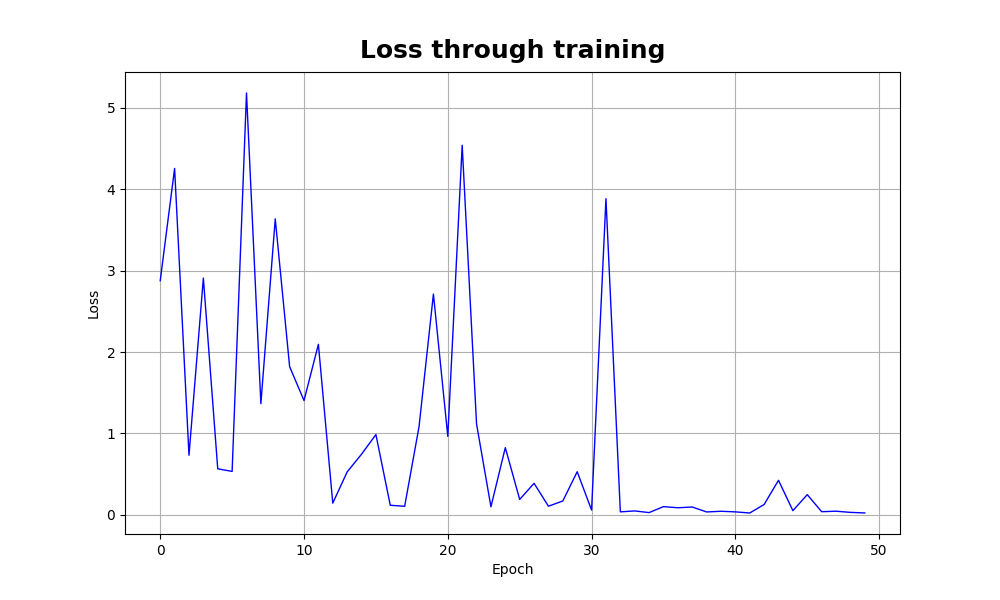
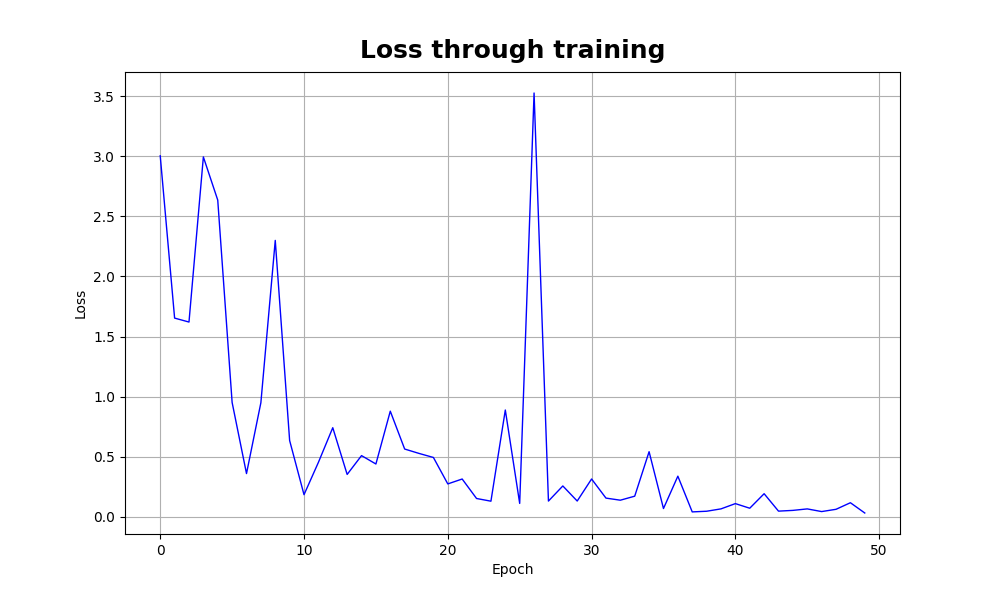
Modifiche

diff --git a/CrossValidation.py b/CrossValidation.py
@@ -7,10 +7,12 @@ import concurrent.futures
 from UtilsFile import add_csv_line
 
 
-def cross_validation(X_train, Y_train, X_val, Y_val, num_neurons_list, lambda_list, dir, activation_fn_list, momentum=True, learning_rate=0.1, num_epochs=50, print_debug=True, mini_batch_size=64):
+def cross_validation(X_train, Y_train, X_val, Y_val, num_neurons_list, lambda_list, activation_fn_list, num_epochs_list, minibatch_size_list, dir, print_debug=True):
     best_parameters = None
     best_rmse = float('inf')
     best_neurons = None
+    best_epochs = None
+    best_minibatch_size = None
     best_lambda = None
     best_error = None
     error_list_final_model = None
@@ -18,19 +20,20 @@ def cross_validation(X_train, Y_train, X_val, Y_val, num_neurons_list, lambda_li
     best_regularization = 0
     regularization_list = ["None", "L1", "L2"]
 
+
     start = time.time()
     print("\nStarting cross validation")
 
-    def evaluate_model_CV(num_neurons, lambda_r, regularization, activation_fn):
+    def evaluate_model_CV(num_neurons, epochs, minibatch_size, lambda_r, regularization, activation_fn):
 
-        parameters, error, error_list = model(X_train, Y_train, num_neurons, learning_rate, num_epochs, activation_fn, lambda_r, momentum, regularization, mini_batch_size)
+        parameters, error, error_list = model(X_train, Y_train, num_neurons, 0.01, epochs, activation_fn, lambda_r, regularization, minibatch_size)
         rmse = evaluate_model_rmse(X_val, parameters, Y_val, activation_fn)
 
         if print_debug:
             if regularization == 0:
-                text = f"RMSE for model {num_neurons} with no regularization and hidden activation function {activation_fn}: "+str(rmse)
+                text = f"RMSE for model {num_neurons} with no regularization, hidden activation function {activation_fn}, {epochs} epochs and minibatch of size {minibatch_size}: "+str(rmse)
             else:
-                text = f"RMSE for model {num_neurons} with regularization {regularization_list[regularization]}, lambda {lambda_r} and hidden activation function {activation_fn}: "+str(rmse)
+                text = f"RMSE for model {num_neurons} with regularization {regularization_list[regularization]}, lambda {lambda_r}, hidden activation function {activation_fn}, {epochs} epochs and minibatch of size {minibatch_size}: "+str(rmse)
             print(text)
 
         return {
@@ -38,6 +41,8 @@ def cross_validation(X_train, Y_train, X_val, Y_val, num_neurons_list, lambda_li
             'parameters': parameters,
             'rmse': rmse,
             'num_neurons': num_neurons,
+            'epochs': epochs,
+            'minibatch_size': minibatch_size,
             'lambda': lambda_r,
             'error': error,
             'error_list': error_list,
@@ -45,11 +50,13 @@ def cross_validation(X_train, Y_train, X_val, Y_val, num_neurons_list, lambda_li
         }
 
     def update_best_model(result):
-        nonlocal best_rmse, best_parameters, best_neurons, best_lambda, best_error, error_list_final_model, best_activation_fn, best_regularization
+        nonlocal best_rmse, best_parameters, best_neurons, best_epochs, best_minibatch_size, best_lambda, best_error, error_list_final_model, best_activation_fn, best_regularization
         if result['rmse'] < best_rmse:
             best_rmse = result['rmse']
             best_parameters = result['parameters']
             best_neurons = result['num_neurons']
+            best_epochs = result['epochs']
+            best_minibatch_size = result['minibatch_size']
             best_lambda = result['lambda']
             best_error = result['error']
             error_list_final_model = result['error_list']
@@ -61,12 +68,14 @@ def cross_validation(X_train, Y_train, X_val, Y_val, num_neurons_list, lambda_li
     # Parallel processing using ThreadPoolExecutor
     with concurrent.futures.ThreadPoolExecutor() as executor:
         futures = []
-        for activation_fn in activation_fn_list:
-            for num_neurons in num_neurons_list:
-                futures.append(executor.submit(evaluate_model_CV, num_neurons, 0, 0, activation_fn))
-                for lambda_r in lambda_list:
-                    futures.append(executor.submit(evaluate_model_CV, num_neurons, lambda_r, 1, activation_fn))
-                    futures.append(executor.submit(evaluate_model_CV, num_neurons, lambda_r, 2, activation_fn))
+        for epochs in num_epochs_list:
+            for minibatch_size in minibatch_size_list:
+                for activation_fn in activation_fn_list:
+                    for num_neurons in num_neurons_list:
+                        futures.append(executor.submit(evaluate_model_CV, num_neurons, epochs, minibatch_size, 0, 0, activation_fn))
+                    for lambda_r in lambda_list:
+                        futures.append(executor.submit(evaluate_model_CV, num_neurons, epochs, minibatch_size, lambda_r, 1, activation_fn))
+                        futures.append(executor.submit(evaluate_model_CV, num_neurons, epochs, minibatch_size, lambda_r, 2, activation_fn))
 
         # Aspetta che tutti i thread siano completati
         concurrent.futures.wait(futures)
@@ -77,7 +86,7 @@ def cross_validation(X_train, Y_train, X_val, Y_val, num_neurons_list, lambda_li
             results.append(result)
 
     for result in results:
-        add_csv_line(result['num_neurons'], regularization_list[result['regularization']], result['lambda'], result['error'], result['rmse'], result['activation_fn'], dir)
+        add_csv_line(result['num_neurons'], regularization_list[result['regularization']], result['lambda'], result['error'], result['rmse'], result['activation_fn'], result['epochs'], result['minibatch_size'], dir)
         update_best_model(result)
 
     end = time.time()
@@ -85,16 +94,18 @@ def cross_validation(X_train, Y_train, X_val, Y_val, num_neurons_list, lambda_li
     print(f"End cross validation. Time spent for cross validation is {int(min)}:{sec:.2f} min\n")
 
     if best_regularization == 0:
-        text = f"Best configuration is {best_neurons} using no regularization, with activation function {best_activation_fn}"
+        text = f"Best configuration is {best_neurons} using no regularization, with activation function {best_activation_fn}, {best_epochs} epochs and minibatch of size {best_minibatch_size}"
     else:
-        text = f"Best configuration is {best_neurons} using {regularization_list[best_regularization]} with lambda {best_lambda} and activation function {best_activation_fn}"
+        text = f"Best configuration is {best_neurons} using {regularization_list[best_regularization]} with lambda {best_lambda}, activation function {best_activation_fn}, {best_epochs} epochs and minibatch of size {best_minibatch_size}"
 
     print(text)
-    print("The RMSE on validation set is: "+str(best_rmse))
+    text2 = "The RMSE on validation set is: "+str(best_rmse)
+    print(text2)
 
     with open(f'plots/{dir}/result/final_result', "w") as file:
         file.write(f"Time spent for cross validation is {int(min)}:{sec:.2f} min\n\n")
         file.write(text + "\n\n")
+        file.write(text2 + "\n\n")
 
     plotError(error_list_final_model, len(error_list_final_model), dir)
 

diff --git a/NeuralNetwork.py b/NeuralNetwork.py
@@ -2,7 +2,7 @@ from Backpropagation import *
 from UtilsFunctions import *
 
 
-def model(X, y, num_neurons, learning_rate=0.01, num_epochs=50, activation_fn="relu", lambda_r=0, momentum=True, regularization = 0, mini_batch_size=64):
+def model(X, y, num_neurons, learning_rate, epochs, activation_fn, lambda_r, regularization, minibatch_size):
 
     # get number of examples
     m = X.shape[1]
@@ -17,10 +17,10 @@ def model(X, y, num_neurons, learning_rate=0.01, num_epochs=50, activation_fn="r
     metric_list = []
     cost_list = []
 
-    for i in range(num_epochs):
+    for i in range(epochs):
         diminishing_stepsize = learning_rate / (1 + 0.01 * i)
         # Creare mini-batch
-        mini_batches = create_mini_batches(X, y, mini_batch_size)
+        mini_batches = create_mini_batches(X, y, minibatch_size)
 
         for mini_batch in mini_batches:
             (mini_batch_X, mini_batch_y) = mini_batch
@@ -32,7 +32,7 @@ def model(X, y, num_neurons, learning_rate=0.01, num_epochs=50, activation_fn="r
             grads = L_model_backward_reg(AL, mini_batch_y, caches, activation_fn, lambda_r, regularization)
 
             # Update parameters
-            parameters, previous_parameters = update_parameters(parameters, grads, diminishing_stepsize, previous_parameters, momentum)
+            parameters, previous_parameters = update_parameters(parameters, grads, diminishing_stepsize, previous_parameters)
 
 
         AL, caches = L_model_forward(X, parameters, activation_fn)
@@ -98,7 +98,7 @@ def initialize_parameters(num_neurons, activation_fn):
     return parameters, previous_parameters
 
 
-def update_parameters(parameters, grads, learning_rate, previous_parameters, momentum=True, beta=0.9):
+def update_parameters(parameters, grads, learning_rate, previous_parameters, beta=0.9):
     L = len(parameters) // 2
     prev_parameters = parameters
 
@@ -107,12 +107,8 @@ def update_parameters(parameters, grads, learning_rate, previous_parameters, mom
         grads["dW" + str(l)] = np.clip(grads["dW" + str(l)], -5, 5)
         grads["db" + str(l)] = np.clip(grads["db" + str(l)], -5, 5)
 
-        if momentum:
-            parameters["W" + str(l)] = parameters["W" + str(l)] - learning_rate * grads["dW" + str(l)] + beta * (parameters["W" + str(l)] - previous_parameters["W" + str(l)])
-            parameters["b" + str(l)] = parameters["b" + str(l)] - learning_rate * grads["db" + str(l)] + beta * (parameters["b" + str(l)] - previous_parameters["b" + str(l)])
-        else:
-            parameters["W" + str(l)] = parameters["W" + str(l)] - learning_rate * grads["dW" + str(l)]
-            parameters["b" + str(l)] = parameters["b" + str(l)] - learning_rate * grads["db" + str(l)]
+        parameters["W" + str(l)] = parameters["W" + str(l)] - learning_rate * grads["dW" + str(l)] + beta * (parameters["W" + str(l)] - previous_parameters["W" + str(l)])
+        parameters["b" + str(l)] = parameters["b" + str(l)] - learning_rate * grads["db" + str(l)] + beta * (parameters["b" + str(l)] - previous_parameters["b" + str(l)])
 
     return parameters, prev_parameters
 

diff --git a/SeoulBikePreprocessing.py b/SeoulBikePreprocessing.py
@@ -1,0 +1,50 @@
+import os
+from UtilsPreprocessing import *
+
+def SeoulBikeData():
+    # read the data
+    DATASET_FILENAME="SeoulBikeData.csv"
+    DATASET_DIR="./dataset"
+    data = pd.read_csv(os.path.join(DATASET_DIR, DATASET_FILENAME), encoding='ISO-8859-1')
+
+    #date transformation
+    data['Date'] = pd.to_datetime(data['Date'], format='%d/%m/%Y')
+    data['Month'] = data['Date'].dt.month.astype(int)
+    data.drop('Date', axis=1, inplace=True)
+
+    X = data.copy()
+    y = X.pop('Rented Bike Count')  # target column
+
+    #split the dataset into training, validation and test set
+    train_data, X_test, y_test, X_val, y_val = train_val_test_split(X, y)
+
+    #removal of duplicated rows of training set
+    if train_data.duplicated().sum() != 0:
+        train_data = train_data.drop_duplicates()
+
+    numerical = train_data.select_dtypes(include=['number']).columns
+    categorical = train_data.select_dtypes(include=['object', 'category']).columns
+
+    plot_features(train_data, numerical, dir = "seoulbike")
+    plot_features(train_data, categorical, dir="seoulbike")
+
+    numerical_features = ['Hour', 'Temperature', 'Humidity', 'Wind speed', 'Visibility', 'Dew point temperature', 'Solar Radiation', 'Rainfall', 'Snowfall', 'Month']
+    categorical_features = ['Seasons', 'Holiday', 'Functioning Day']
+    X_train = train_data.copy()
+    y_train = X_train.pop("Rented Bike Count")
+
+    #encoding and standardization
+    X_train, X_val, X_test = encoding_and_standardization(X_train, X_val, X_test, numerical = numerical_features, categorical=categorical_features)
+
+    y_train = y_train.to_numpy()
+    y_val = y_val.to_numpy()
+    y_test = y_test.to_numpy()
+
+    X_train = X_train.T
+    y_train = y_train.reshape(1, -1)
+    X_val = X_val.T
+    y_val = y_val.reshape(1, -1)
+    X_test = X_test.T
+    y_test = y_test.reshape(1, -1)
+
+    return X_train, X_val, X_test, y_train, y_val, y_test

diff --git a/Main.py b/Main.py
@@ -2,6 +2,7 @@ from scipy.stats import moment
 
 from AirQualityPreprocessing import *
 from CrossValidation import *
+from SeoulBikePreprocessing import SeoulBikeData
 
 
 def main():
@@ -17,16 +18,19 @@ def main():
         X_train, X_val, X_test, y_train, y_val, y_test = AirQualityData()
         dir = "airquality"
     elif dataset == "2":
-        return 0
+        X_train, X_val, X_test, y_train, y_val, y_test = SeoulBikeData()
+        dir = "seoulbike"
     else:
         return 0
 
     # definisci possibili scelte per cross validation
     input_layer = X_train.shape[0]
-    num_neurons_list = [[input_layer, 10, 20, 1], [input_layer, 50, 30, 1]]  # da scegliere
-    lambda_list = [0.01, 0.1, 0.5]
+    num_neurons_list = [[input_layer, 32, 1], [input_layer, 64, 1], [input_layer, 128, 1], [input_layer, 32, 64, 1], [input_layer, 64, 128, 1], [input_layer, 32, 128, 1], [input_layer, 32, 64, 128, 1], [input_layer, 32, 32, 128, 1], [input_layer, 64, 128, 32, 1]]
+    lambda_list = [1e-5, 1e-3, 1e-1]
     activation_fn_list = ["relu", "tanh"]
-    best_parameters, activation_function = cross_validation(X_train, y_train, X_val, y_val, lambda_list = lambda_list, num_neurons_list = num_neurons_list, activation_fn_list=activation_fn_list, dir = dir, momentum=False)
+    minibatch_size_list = [64]
+    num_epochs_list = [50]
+    best_parameters, activation_function = cross_validation(X_train, y_train, X_val, y_val, lambda_list = lambda_list, num_neurons_list = num_neurons_list, activation_fn_list=activation_fn_list, num_epochs_list= num_epochs_list, minibatch_size_list= minibatch_size_list, dir = dir)
 
     # print the test rmse
     test_rmse = evaluate_model_rmse(X_test, best_parameters, y_test, activation_function)

diff --git a/UtilsFile.py b/UtilsFile.py
@@ -1,11 +1,11 @@
 import csv
 import os
 
-def add_csv_line(model, regularization, lambd, error, rmse, activation_fn,  dir):
+def add_csv_line(model, regularization, lambd, error, rmse, activation_fn, epochs, minibatch_size, dir):
     # Apro il file in modalità 'append' per aggiungere righe senza sovrascrivere
     with open('plots/' + dir + '/result/results.csv', mode='a', newline='') as file:
-        nomi_colonne = ['model', 'regularization', 'lambda', 'error', 'rmse', 'activation_fn']
-        nuova_riga = {'model': model, 'regularization': regularization, 'lambda': lambd, 'error': error, 'rmse': rmse, 'activation_fn': activation_fn}
+        nomi_colonne = ['model', 'regularization', 'lambda', 'error', 'rmse', 'activation_fn', 'epochs', 'minibatch_size']
+        nuova_riga = {'model': model, 'regularization': regularization, 'lambda': lambd, 'error': error, 'rmse': rmse, 'activation_fn': activation_fn, 'epochs': epochs, 'minibatch_size': minibatch_size}
         writer = csv.DictWriter(file, fieldnames=nomi_colonne)
 
         # Scrivo l'intestazione (solo se il file è vuoto)
